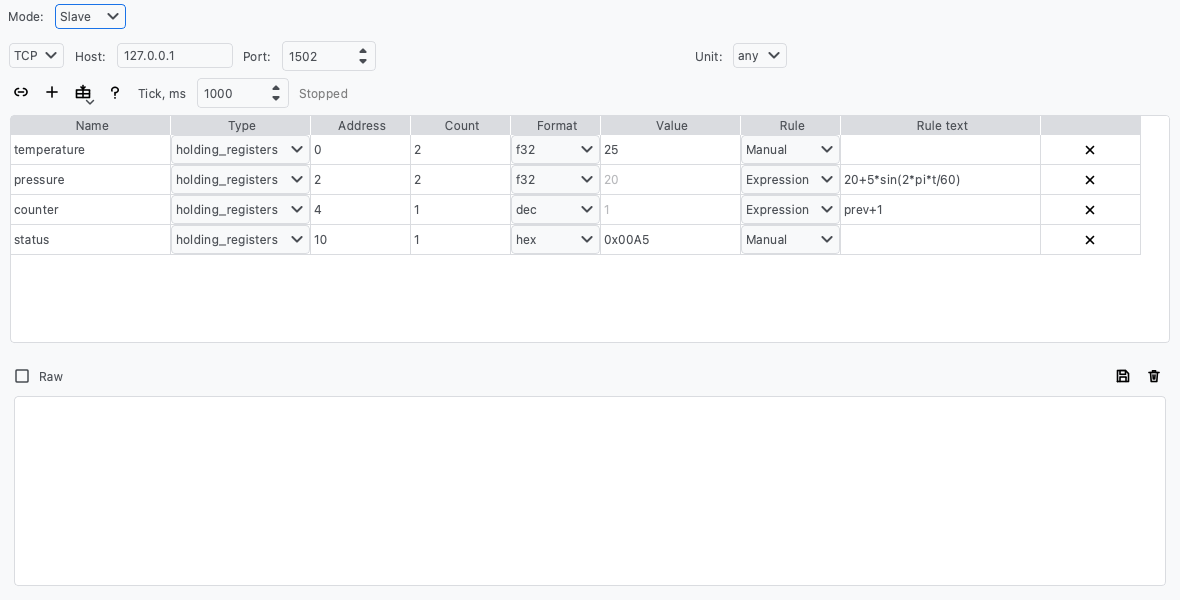
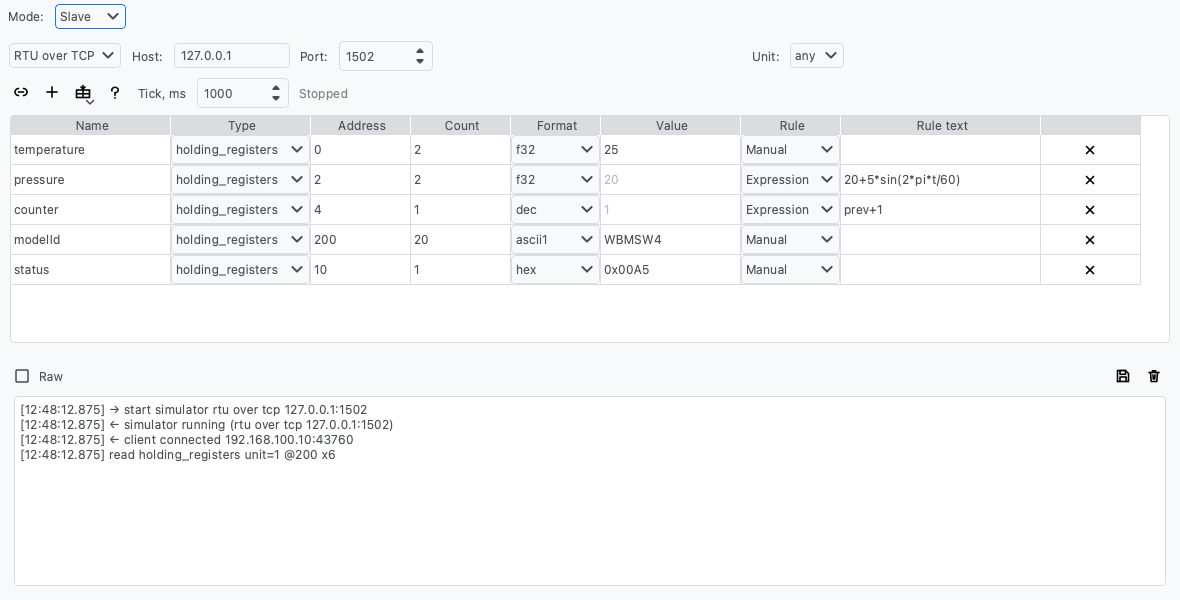
Update simulator docs and screenshot for RTU over TCP and ascii1
README bullets now mention the RTU over TCP transport, display-format
value entry, master-write flash and client connect logging; the
simulator screenshot shows the new transport and an ascii1 string row.

diff --git a/README.md b/README.md
@@ -24,10 +24,12 @@ all Modbus logic runs in a separate thread (QThread), so the GUI never freezes.
   parity, etc.; RTU by default) and **RTU over TCP / RTU over UDP** for
   RS-485↔Ethernet converters — all configured in the GUI.
 - Slave mode / device simulator (the **Mode** combo in each tab): the tab
-  turns into a Modbus server — TCP or RTU, answering one unit id or **any** —
-  with an editable register map. Set values manually (they land in the
-  datastore instantly), watch master writes update the table and every
-  request hit the log, or drive rows with expression rules recomputed on a
+  turns into a Modbus server — TCP, RTU or **RTU over TCP**, answering one
+  unit id or **any** — with an editable register map. Set values manually in
+  the row's display format (0.1 for f32, plain text for ascii/ascii1 — they
+  land in the datastore instantly), watch master writes flash the table and
+  every request and client connect hit the log, or drive rows with expression
+  rules recomputed on a
   configurable tick (`[name]` references, `t` seconds since start, `prev`
   previous value, `rand()`/`randint(a,b)`). Device templates fill the map in
   one click — handy for debugging masters and gateways without real hardware.
